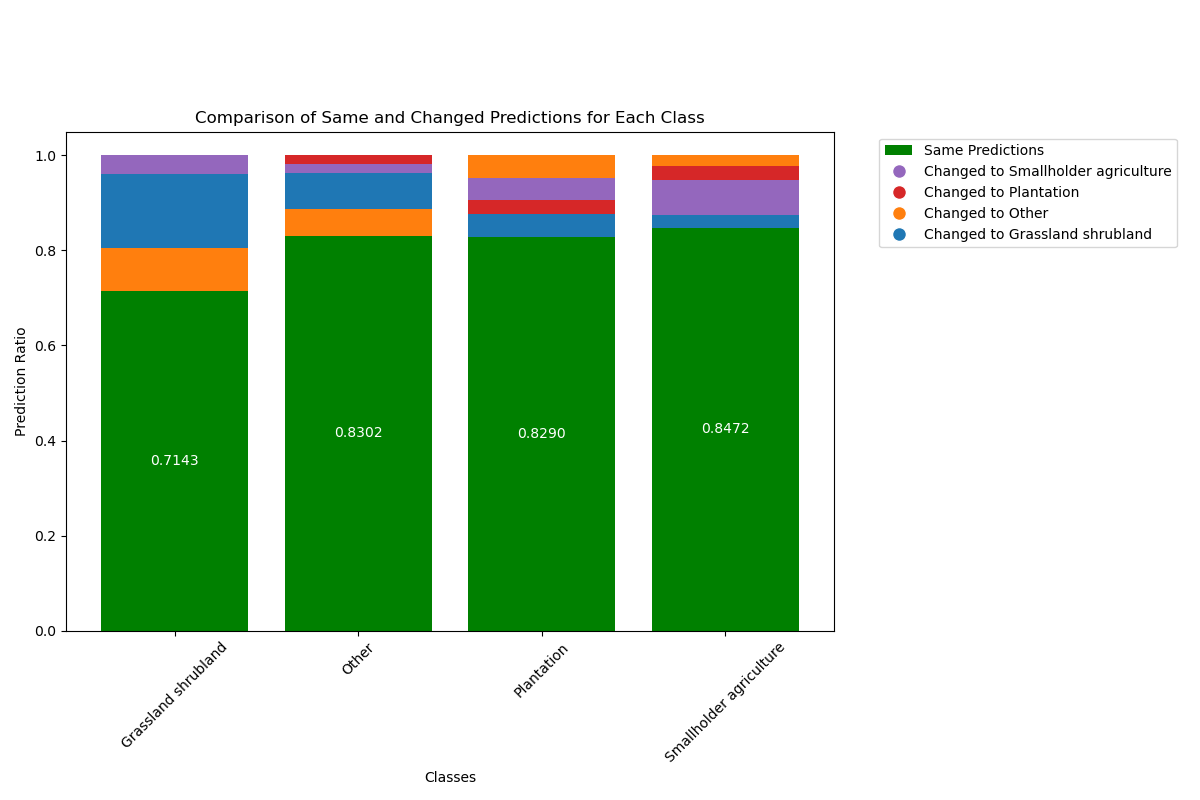
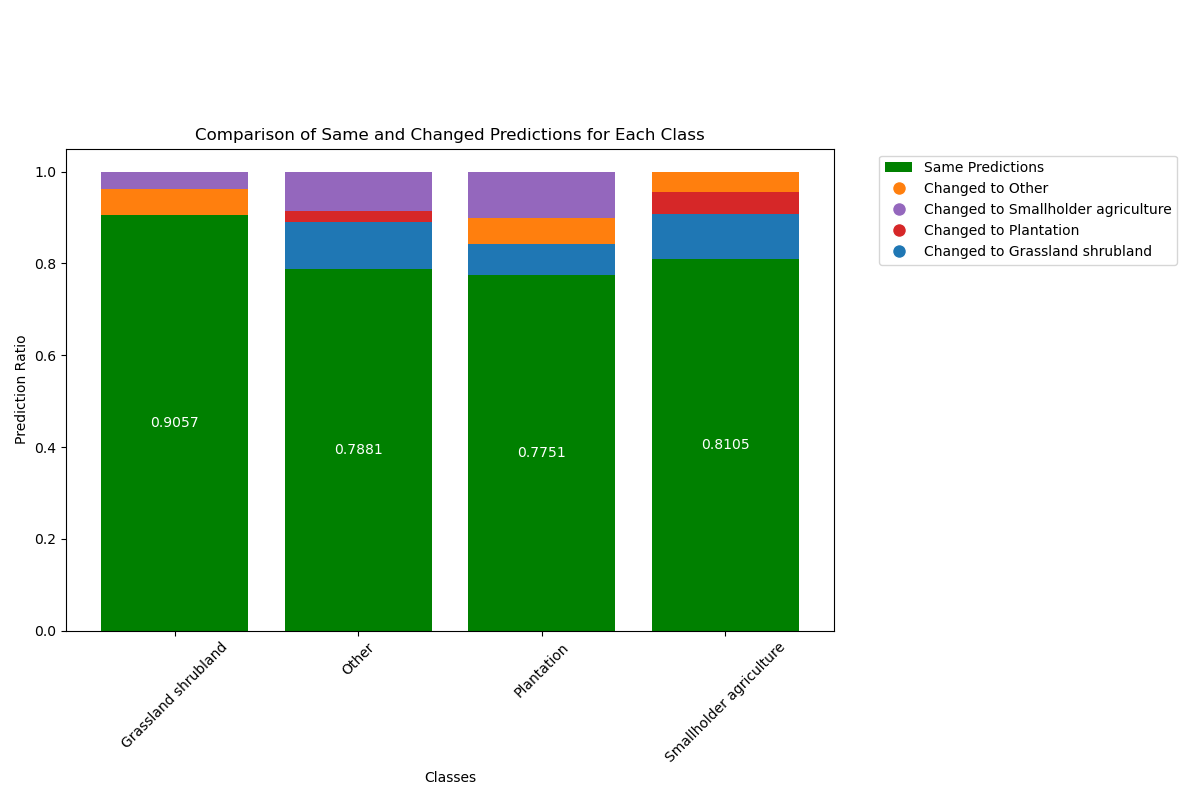
Fix x axis

diff --git a/evaluate.py b/evaluate.py
@@ -236,13 +236,13 @@ def compare_predictions(model, test_loader, metamorphic_test_loader, device, ind
 
         # Compare the predictions for the current image
         for o, a, label in zip(pred_orig, pred_aug, label_orig):
-            total_count_per_class[label.item()] += 1
+            total_count_per_class[o.item()] += 1
             if o == a:
-                same_count_per_class[label.item()] += 1
+                same_count_per_class[o.item()] += 1
             else:
-                changed_count_per_class[label.item()] += 1
+                changed_count_per_class[o.item()] += 1
                 # Track which class it changed to, but exclude the original class
-                changed_to_class[label.item()][a.item()] += 1  # Track which class it changed to
+                changed_to_class[o.item()][a.item()] += 1  # Track which class it changed to
 
     # Calculate the ratio of same predictions and changed predictions per class
     same_ratio_per_class = {class_id: same_count_per_class[class_id] / total_count_per_class[class_id]
